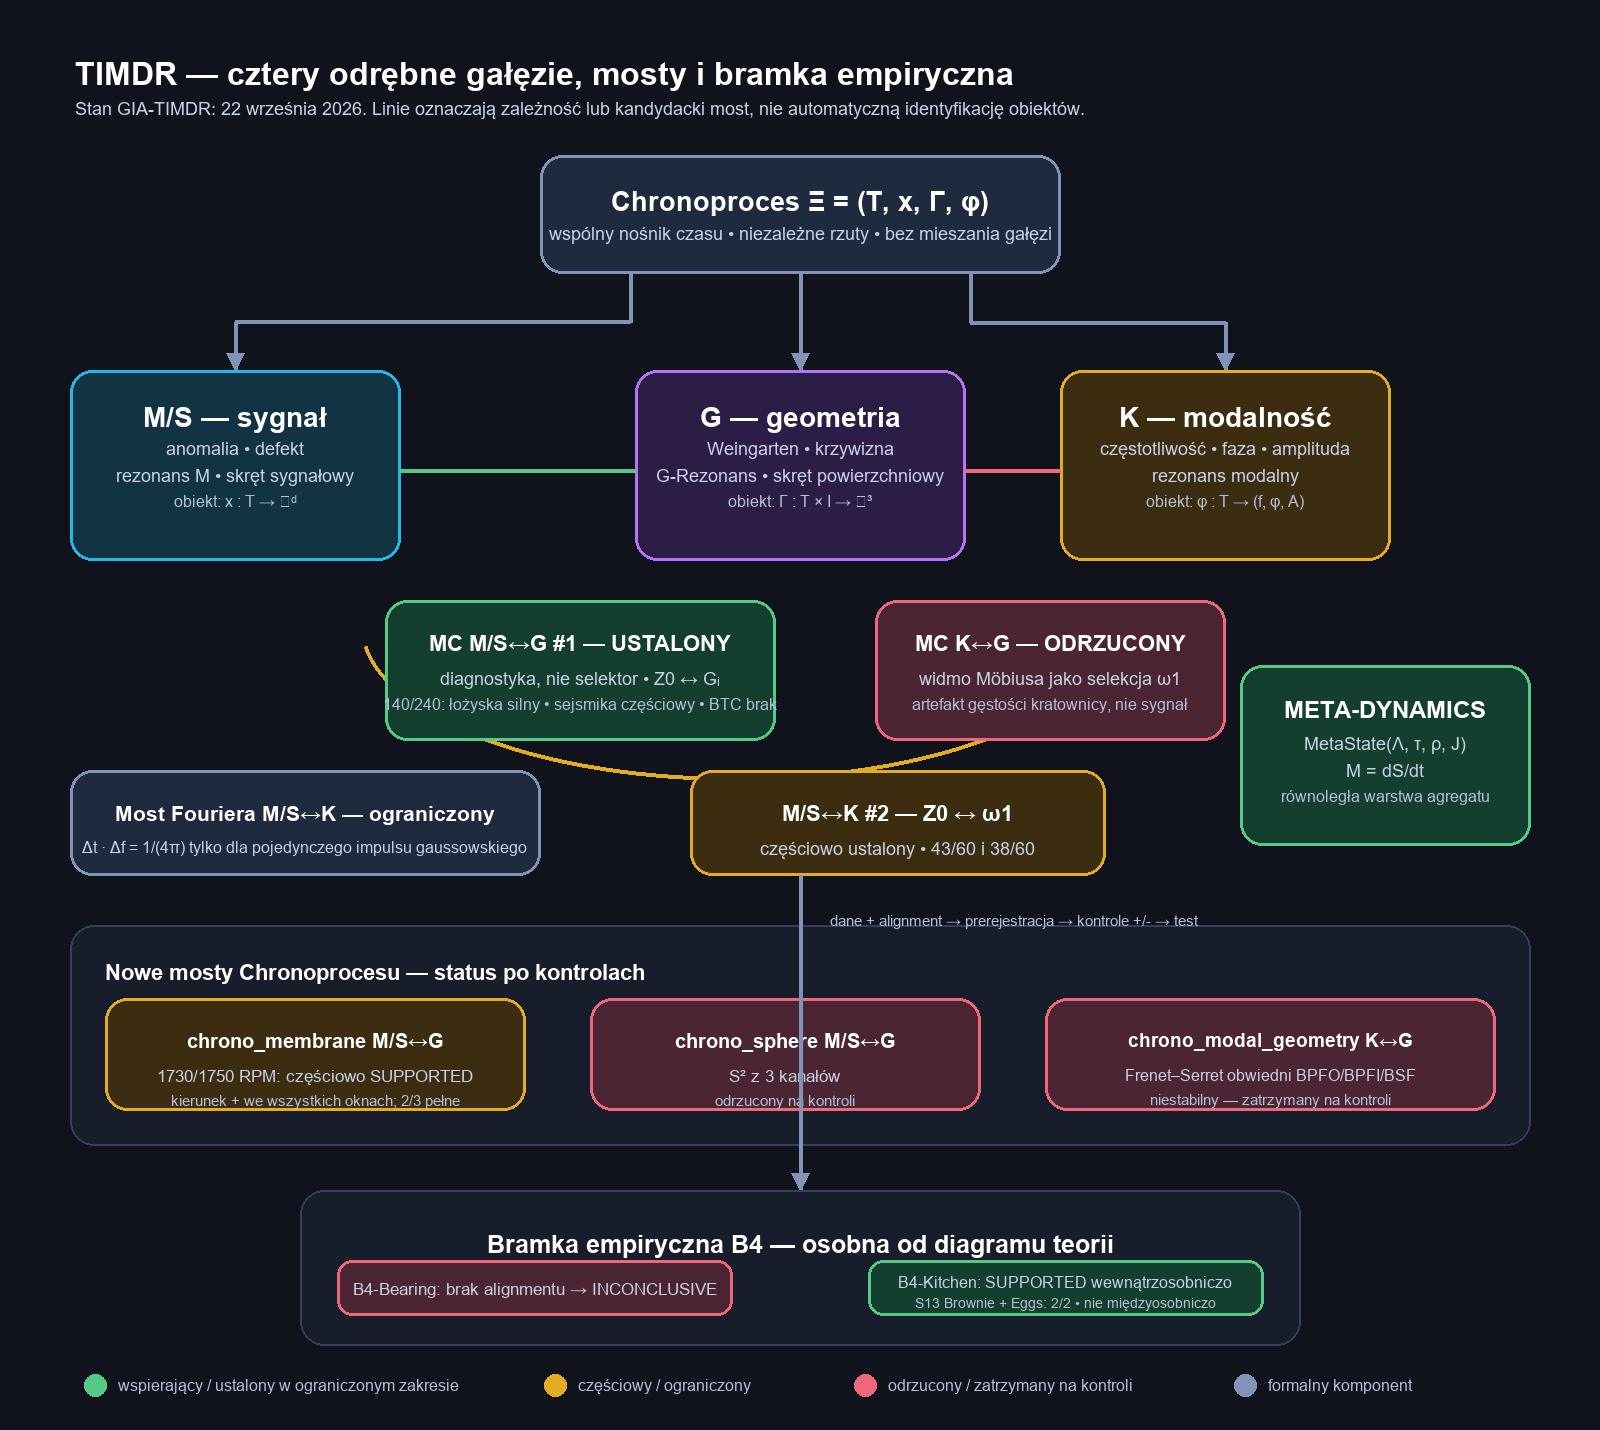
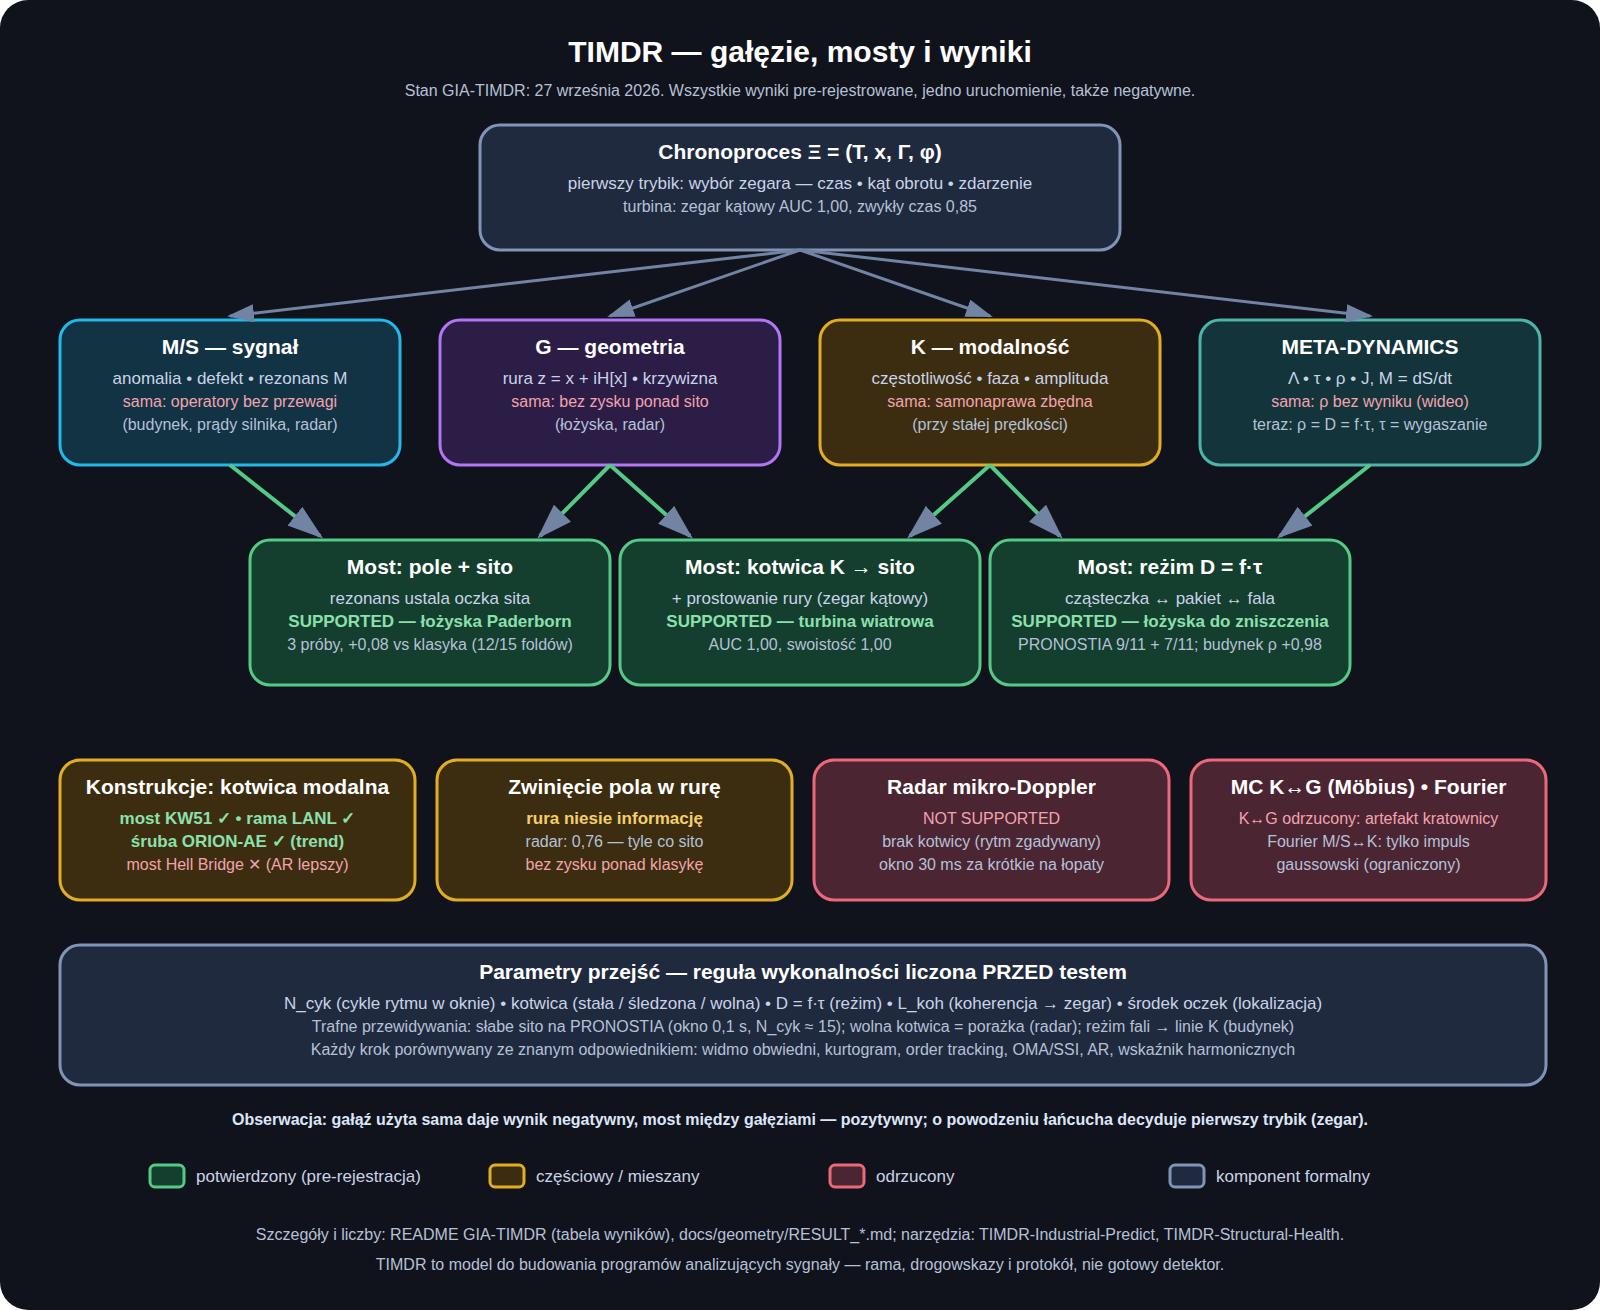
Diagram galezi zaktualizowany na 27.09: Chronoproces (zegar), galezie sama = minus, mosty = plus (sito, kotwica K, rezim D), konstrukcje, radar, regula wykonalnosci; generator w docs/
Claude-Session: https://claude.ai/code/session_01D7JJTxtWXcNbU6Qt1Y691b

diff --git a/index.html b/index.html
@@ -265,7 +265,7 @@
         <!-- DIAGRAM: cztery gałęzie TIMDR (Chronoproces -> M/S, G, K -> META-DYNAMICS), mosty i status -->
         <div class="mermaid-panel">
         <p style="font-size:13px;font-weight:600;color:var(--text-color);margin:0 0 10px;">Cztery gałęzie TIMDR — mosty i status <span style="color:var(--text-muted);font-weight:400;">(kliknij, aby powiększyć)</span></p>
-        <img id="branchDiagramImg" src="timdr-branches-diagram.svg" alt="Aktualna mapa TIMDR: cztery odrębne gałęzie, Chronoproces, status mostów i bramka B4" style="max-width:100%;height:auto;display:block;margin:0 auto;border-radius:6px;cursor:zoom-in;">
+        <img id="branchDiagramImg" src="timdr-branches-diagram.svg" alt="Mapa TIMDR (27.09.2026): Chronoproces, cztery gałęzie, mosty z wynikami, parametry przejść i reguła wykonalności" style="max-width:100%;height:auto;display:block;margin:0 auto;border-radius:6px;cursor:zoom-in;">
         </div>
 
         <!-- Lightbox: powiekszony diagram na pelnym ekranie po kliknieciu -->

diff --git a/docs/rysuj_diagram_galezi.py b/docs/rysuj_diagram_galezi.py
@@ -1,0 +1,88 @@
+"""Generuje timdr-branches-diagram.svg (mapa galezi, mostow i wynikow TIMDR). Stan: 27 wrzesnia 2026.
+Uzycie: python docs/rysuj_diagram_galezi.py  (zapisuje plik w katalogu glownym strony)."""
+from pathlib import Path
+from xml.sax.saxutils import escape
+
+W, H = 1600, 1310
+out = []
+A = out.append
+
+
+def box(x, y, w, h, cls, lines, title_cls="sh", rx=20):
+    A(f'<rect x="{x}" y="{y}" width="{w}" height="{h}" rx="{rx}" class="{cls}"/>')
+    ty = y + 34
+    for i, (txt, c) in enumerate(lines):
+        A(f'<text x="{x + w / 2}" y="{ty}" text-anchor="middle" class="{c}">{escape(txt)}</text>')
+        ty += 30 if c in ("sh", "h") else 23
+
+
+def line(x1, y1, x2, y2, cls="line", arrow=True):
+    A(f'<path d="M{x1},{y1} L{x2},{y2}" class="{cls}"' + (' marker-end="url(#arrow)"' if arrow else "") + "/>")
+
+
+A(f'<svg xmlns="http://www.w3.org/2000/svg" width="{W}" height="{H}" viewBox="0 0 {W} {H}" role="img" aria-labelledby="title desc">')
+A('<title id="title">TIMDR — gałęzie, mosty i wyniki (27 września 2026)</title>')
+A('<desc id="desc">Chronoproces i cztery gałęzie TIMDR; gałęzie użyte same dają wyniki negatywne, mosty między nimi — pozytywne; '
+  'parametry przejść i reguła wykonalności; wyniki na łożyskach, turbinie, konstrukcjach i radarze.</desc>')
+A('''<defs><style>
+.bg{fill:#11131c}.formal{fill:#202a3e;stroke:#8194b7;stroke-width:3}.ms{fill:#123344;stroke:#22b9e8;stroke-width:3}
+.g{fill:#2c1d46;stroke:#b175f5;stroke-width:3}.k{fill:#3c2d10;stroke:#e3ad21;stroke-width:3}.meta{fill:#12343a;stroke:#4fb3a8;stroke-width:3}
+.support{fill:#143e2d;stroke:#55ca86;stroke-width:3}.partial{fill:#3c2d10;stroke:#e3ad21;stroke-width:3}.reject{fill:#4b2531;stroke:#ec687a;stroke-width:3}
+.line{fill:none;stroke:#7184a4;stroke-width:3}.gline{fill:none;stroke:#55ca86;stroke-width:4}
+.h{font:700 30px Arial,sans-serif;fill:#fff}.sh{font:700 21px Arial,sans-serif;fill:#fff}.small{font:17px Arial,sans-serif;fill:#c9d3e7}
+.note{font:16px Arial,sans-serif;fill:#b5c1d7}.neg{font:16px Arial,sans-serif;fill:#f3a3ae}.pos{font:700 17px Arial,sans-serif;fill:#8be0ad}
+.mid{font:700 17px Arial,sans-serif;fill:#f2cf6b}.label{font:700 16px Arial,sans-serif;fill:#dce6f8}
+</style>
+<marker id="arrow" markerWidth="10" markerHeight="10" refX="8" refY="3" orient="auto"><path d="M0,0 L9,3 L0,6 Z" fill="#7184a4"/></marker></defs>''')
+A(f'<rect class="bg" width="{W}" height="{H}" rx="28"/>')
+A('<text x="800" y="62" text-anchor="middle" class="h">TIMDR — gałęzie, mosty i wyniki</text>')
+A('<text x="800" y="96" text-anchor="middle" class="note">Stan GIA-TIMDR: 27 września 2026. Wszystkie wyniki pre-rejestrowane, jedno uruchomienie, także negatywne.</text>')
+
+# Chronoproces
+box(480, 125, 640, 125, "formal", [("Chronoproces Ξ = (T, x, Γ, φ)", "sh"), ("pierwszy trybik: wybór zegara — czas • kąt obrotu • zdarzenie", "small"),
+                                    ("turbina: zegar kątowy AUC 1,00, zwykły czas 0,85", "note")])
+# galezie
+BX = [60, 440, 820, 1200]; BY = 320; BW, BH = 340, 145
+gal = [("ms", "M/S — sygnał", "anomalia • defekt • rezonans M", "sama: operatory bez przewagi", "(budynek, prądy silnika, radar)"),
+       ("g", "G — geometria", "rura z = x + iH[x] • krzywizna", "sama: bez zysku ponad sito", "(łożyska, radar)"),
+       ("k", "K — modalność", "częstotliwość • faza • amplituda", "sama: samonaprawa zbędna", "(przy stałej prędkości)"),
+       ("meta", "META-DYNAMICS", "Λ • τ • ρ • J,  M = dS/dt", "sama: ρ bez wyniku (wideo)", "teraz: ρ = D = f·τ, τ = wygaszanie")]
+for x, (c, t, s, n1, n2) in zip(BX, gal):
+    box(x, BY, BW, BH, c, [(t, "sh"), (s, "small"), (n1, "neg"), (n2, "note")])
+    line(800, 250, x + BW / 2, BY - 4)
+
+# mosty (pozytywne, miedzy galeziami)
+MY = 540; MW, MH = 360, 145
+mosty = [(250, "Most: pole + sito", "rezonans ustala oczka sita", "SUPPORTED — łożyska Paderborn", "3 próby, +0,08 vs klasyka (12/15 foldów)"),
+         (620, "Most: kotwica K → sito", "+ prostowanie rury (zegar kątowy)", "SUPPORTED — turbina wiatrowa", "AUC 1,00, swoistość 1,00"),
+         (990, "Most: reżim D = f·τ", "cząsteczka ↔ pakiet ↔ fala", "SUPPORTED — łożyska do zniszczenia", "PRONOSTIA 9/11 + 7/11; budynek ρ +0,98")]
+for (x, t, s, r1, r2), (a, b) in zip(mosty, [(0, 1), (1, 2), (2, 3)]):
+    box(x, MY, MW, MH, "support", [(t, "sh"), (s, "small"), (r1, "pos"), (r2, "note")])
+    line(BX[a] + BW / 2, BY + BH, x + 70, MY - 4, "gline"); line(BX[b] + BW / 2, BY + BH, x + MW - 70, MY - 4, "gline")
+
+# wyniki dziedzinowe
+RY = 760; RW, RH = 355, 140
+wyniki = [(60, "partial", "Konstrukcje: kotwica modalna", ("most KW51 ✓ • rama LANL ✓", "pos"), ("śruba ORION-AE ✓ (trend)", "pos"), ("most Hell Bridge ✕ (AR lepszy)", "neg")),
+          (437, "partial", "Zwinięcie pola w rurę", ("rura niesie informację", "mid"), ("radar: 0,76 — tyle co sito", "note"), ("bez zysku ponad klasykę", "neg")),
+          (814, "reject", "Radar mikro-Doppler", ("NOT SUPPORTED", "neg"), ("brak kotwicy (rytm zgadywany)", "note"), ("okno 30 ms za krótkie na łopaty", "note")),
+          (1191, "reject", "MC K↔G (Möbius) • Fourier", ("K↔G odrzucony: artefakt kratownicy", "neg"), ("Fourier M/S↔K: tylko impuls", "note"), ("gaussowski (ograniczony)", "note"))]
+for x, c, t, *ls in wyniki:
+    box(x, RY, RW, RH, c, [(t, "sh")] + list(ls))
+
+# parametry przejsc
+box(60, 945, 1486, 140, "formal", [("Parametry przejść — reguła wykonalności liczona PRZED testem", "sh"),
+    ("N_cyk (cykle rytmu w oknie) • kotwica (stała / śledzona / wolna) • D = f·τ (reżim) • L_koh (koherencja → zegar) • środek oczek (lokalizacja)", "small"),
+    ("Trafne przewidywania: słabe sito na PRONOSTIA (okno 0,1 s, N_cyk ≈ 15); wolna kotwica = porażka (radar); reżim fali → linie K (budynek)", "note"),
+    ("Każdy krok porównywany ze znanym odpowiednikiem: widmo obwiedni, kurtogram, order tracking, OMA/SSI, AR, wskaźnik harmonicznych", "note")])
+A('<text x="800" y="1125" text-anchor="middle" class="label">Obserwacja: gałąź użyta sama daje wynik negatywny, most między gałęziami — pozytywny; o powodzeniu łańcucha decyduje pierwszy trybik (zegar).</text>')
+
+# legenda
+LY = 1165
+for i, (c, t) in enumerate([("support", "potwierdzony (pre-rejestracja)"), ("partial", "częściowy / mieszany"), ("reject", "odrzucony"), ("formal", "komponent formalny")]):
+    x = 150 + i * 340
+    A(f'<rect x="{x}" y="{LY}" width="34" height="22" rx="5" class="{c}"/>'); A(f'<text x="{x + 46}" y="{LY + 17}" class="small">{t}</text>')
+A('<text x="800" y="1240" text-anchor="middle" class="note">Szczegóły i liczby: README GIA-TIMDR (tabela wyników), docs/geometry/RESULT_*.md; narzędzia: TIMDR-Industrial-Predict, TIMDR-Structural-Health.</text>')
+A('<text x="800" y="1270" text-anchor="middle" class="note">TIMDR to model do budowania programów analizujących sygnały — rama, drogowskazy i protokół, nie gotowy detektor.</text>')
+A("</svg>")
+Path(__file__).resolve().parent.parent.joinpath("timdr-branches-diagram.svg").write_text("\n".join(out), encoding="utf-8")
+print("zapisano timdr-branches-diagram.svg")
